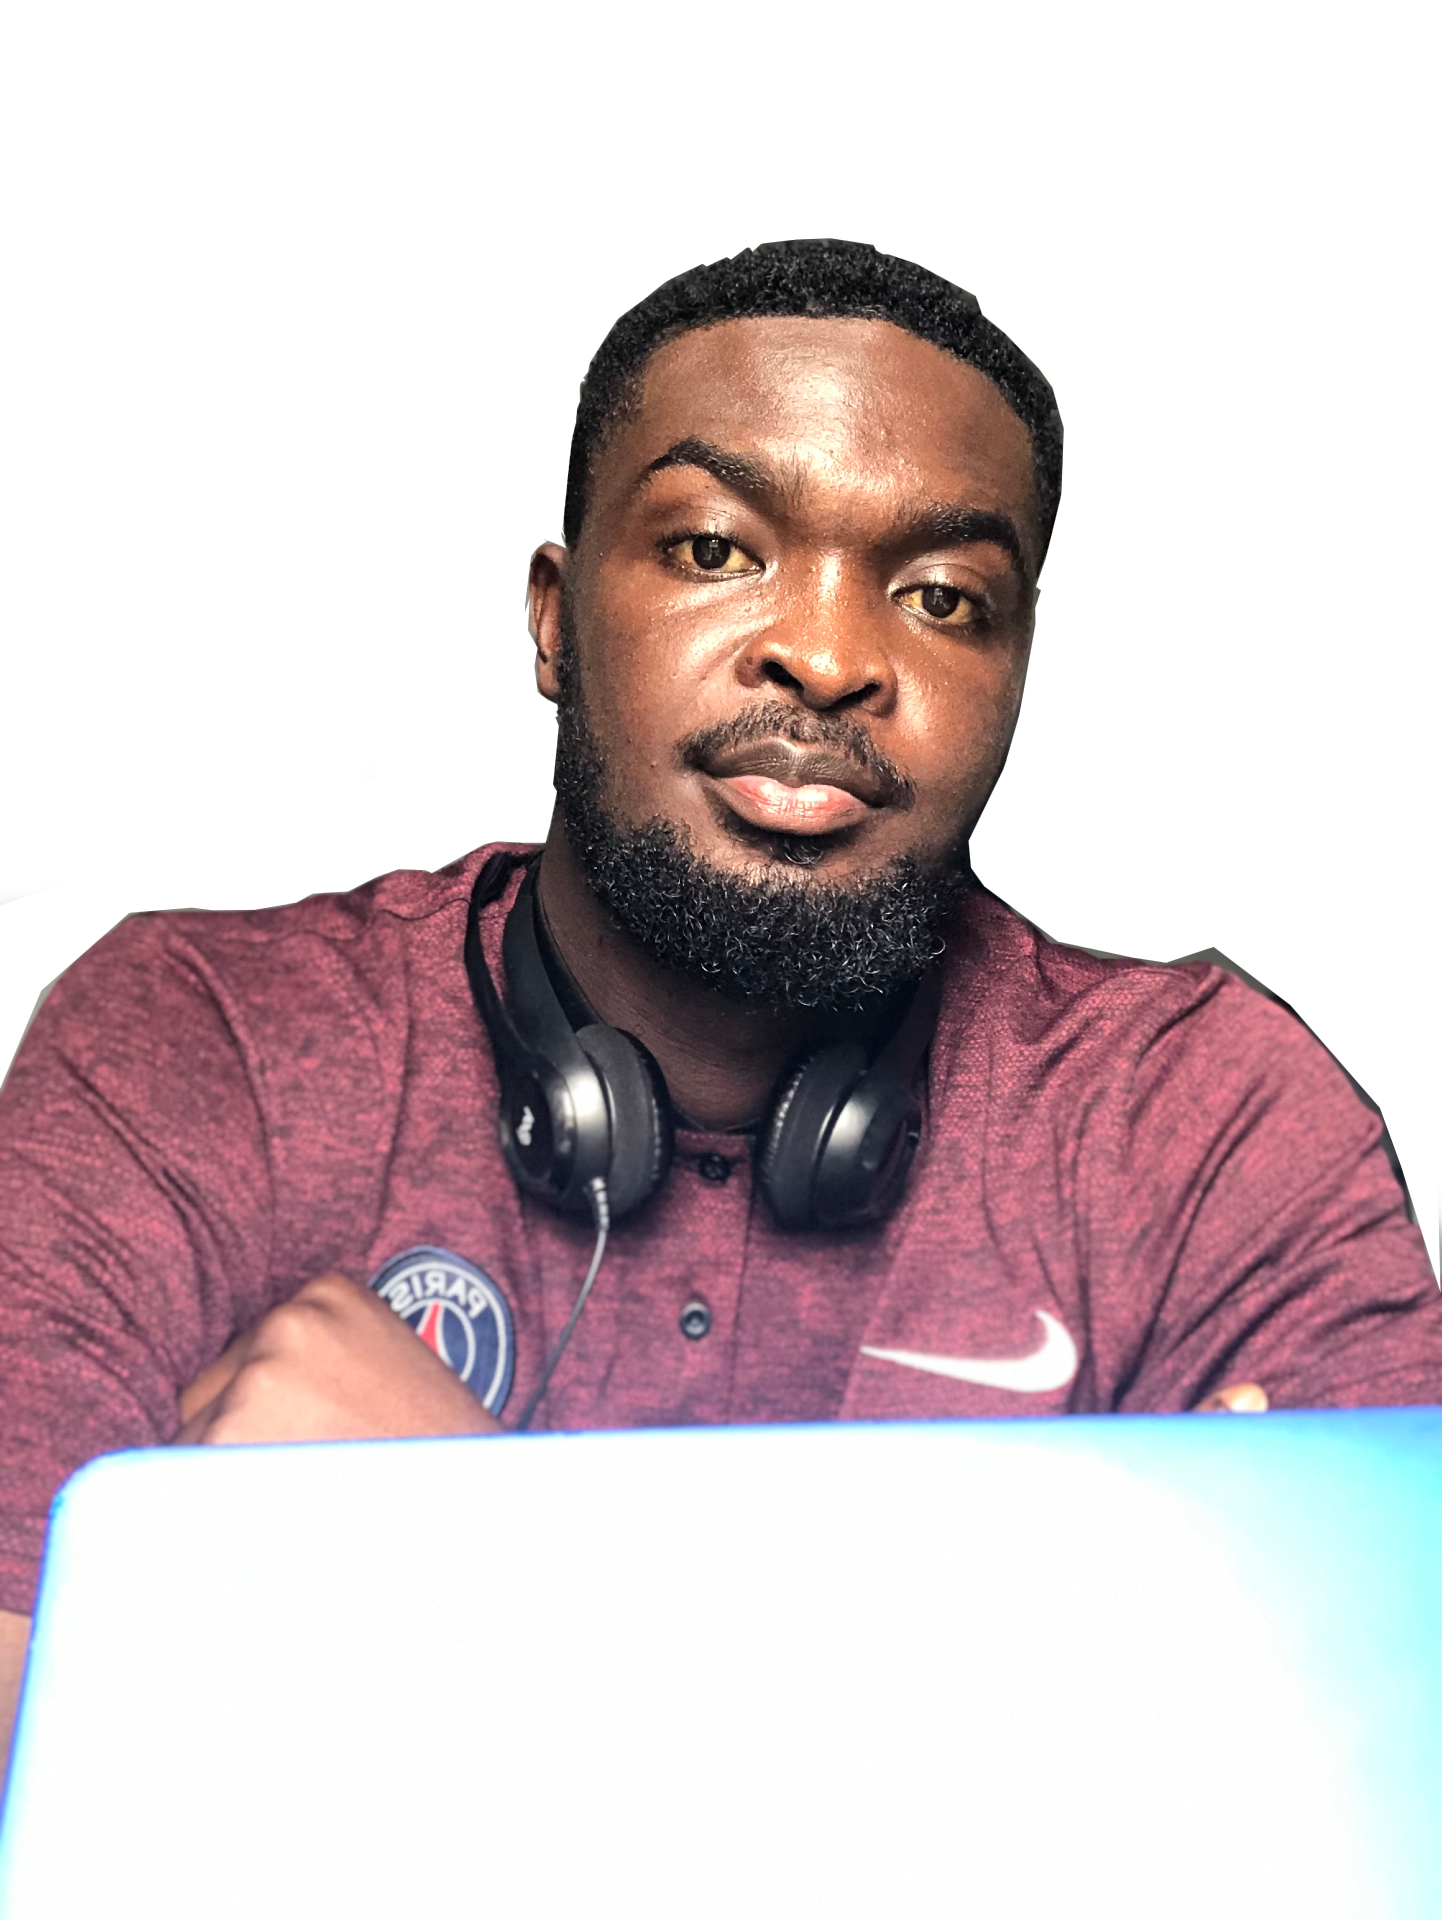
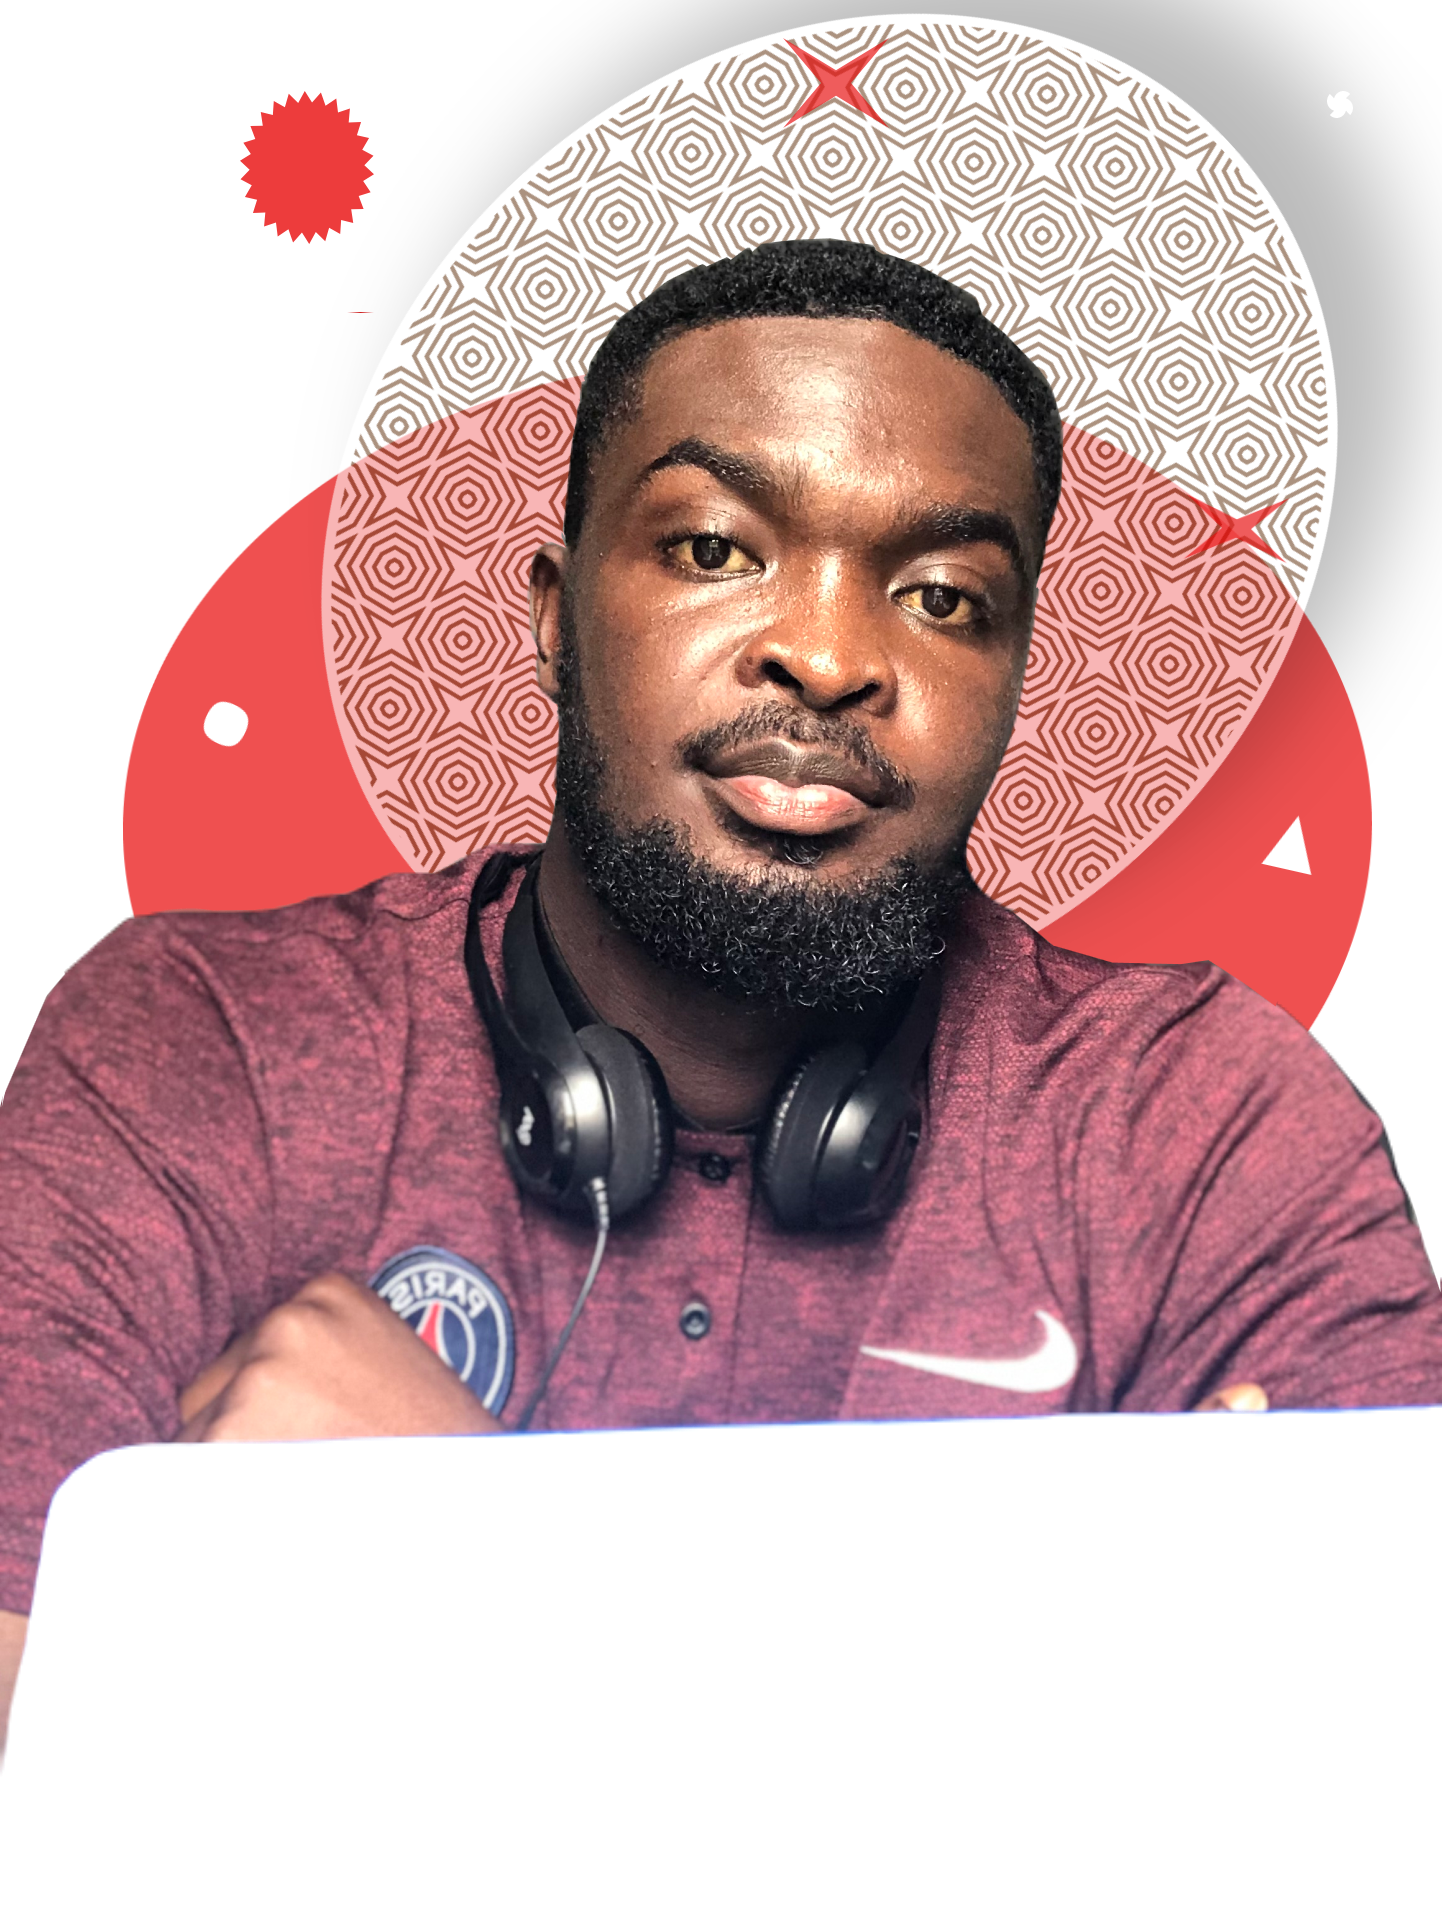
modify page header

diff --git a/src/components/header.js b/src/components/header.js
@@ -1,10 +1,10 @@
-import myPic from './assets/images/Transparent BG.png';
+// import myPic from './assets/images/Transparent BG.png';
 import 'bootstrap-icons/font/bootstrap-icons.css';
 
 function Home() {
   return (
     <>
-      <div className="d-flex justify-content-between custom-navbar-bg p-3">
+      <div className="d-flex justify-content-between custom-navbar-bg p-3 headline">
         <div className="p-5">
           <h5 className="welcome-bg text-center p-2">Welcome! I&apos;m</h5>
           <h2 className="fs-1">Festus</h2>
@@ -17,16 +17,14 @@ function Home() {
             {' '}
           </p>
         </div>
-        <div className="p-1 pic_container">
-          {/* <h2>jsdsc</h2> */}
+        {/* <div className="p-1 pic_container">
           <img
             src={myPic}
             alt="my_pic"
             width="90%"
-            height="100%"
+            height="auto"
           />
-          {/* <h3>hhehe</h3> */}
-        </div>
+        </div> */}
         <div className="d-flex flex-column justify-content-between ">
           <div className="sm-title-wrapper">
             <h4 className="fs-6 sm-title">FOLLOW ME ON: </h4>

diff --git a/src/App.css b/src/App.css
@@ -20,8 +20,7 @@
 
 .pic_container {
   width: 100%;
-
-  /* height: 100vh; */
+  height: auto;
 }
 
 .icon-style {
@@ -55,4 +54,21 @@
 
   /* flex-grow: 2; */
   color: red;
+}
+
+.headline {
+  background-image: url("../src/components/assets/images/Transparent\ BG.png");
+  background-repeat: no-repeat;
+  background-position: bottom -220px left 600px;
+  height: 100vh;
+  background-size: 50%;
+}
+
+@media screen and (max-width: 998px) {
+  .headline {
+    background-image: url("../src/components/assets/images/Transparent\ BG.png");
+    background-repeat: no-repeat;
+    background-position: bottom -20px right 10px;
+    background-size: 50%;
+  }
 }
